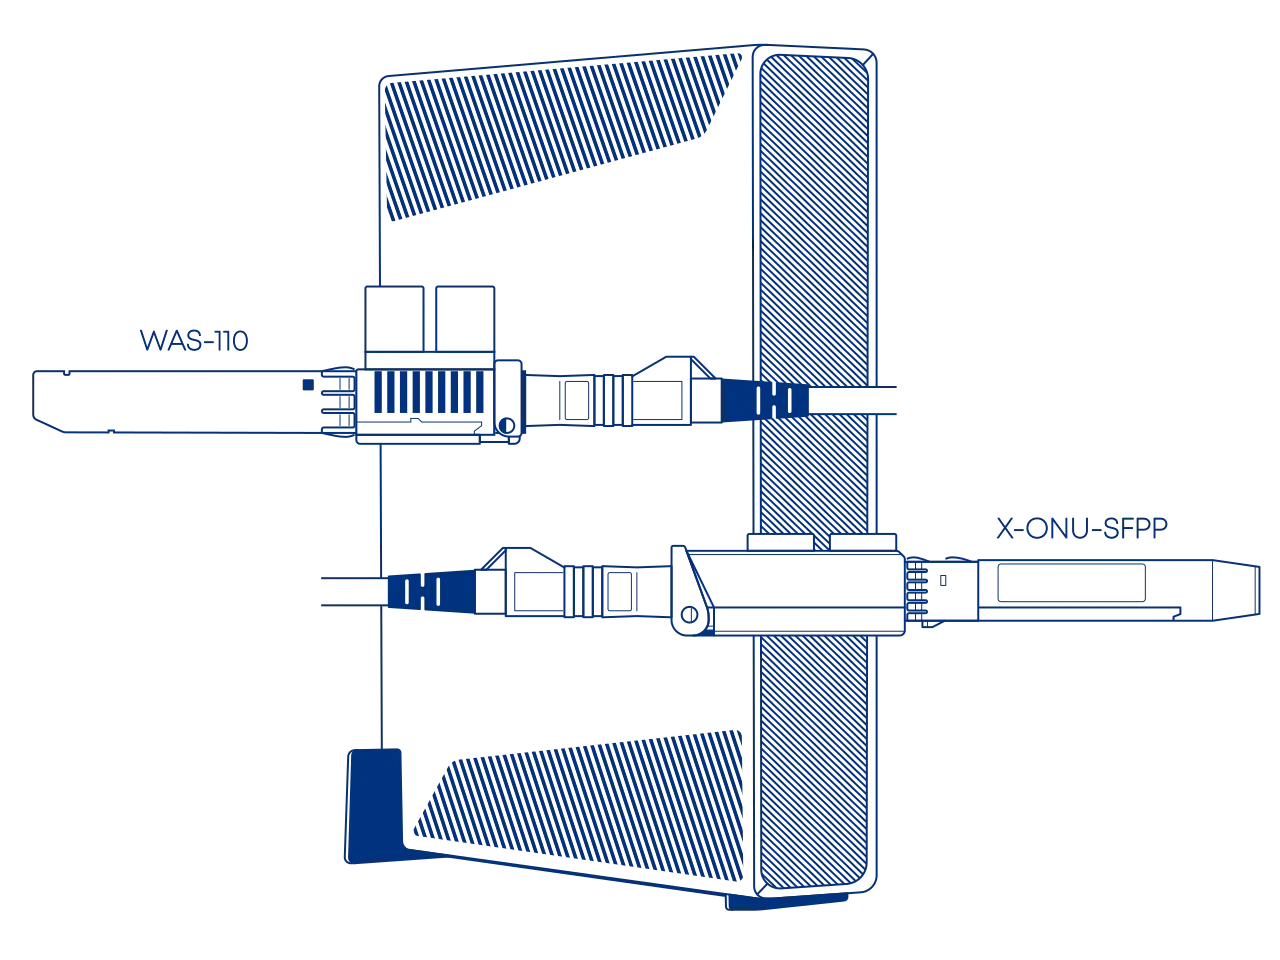
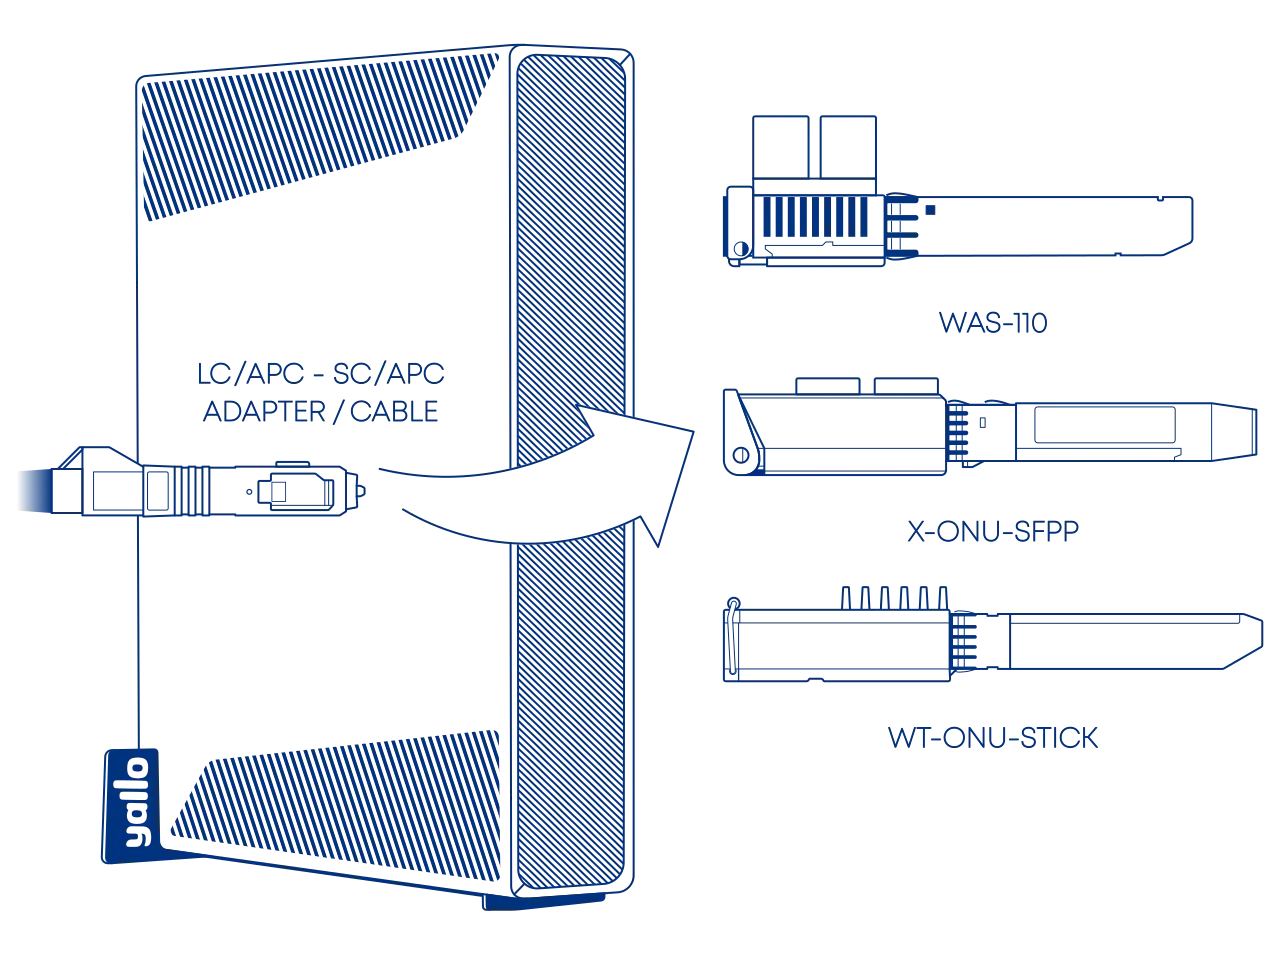
post 25: update header art

diff --git a/fragments/vmed-ltd-hub/purchase-ont.md b/fragments/vmed-ltd-hub/purchase-ont.md
@@ -40,11 +40,13 @@ discretion. We assume no responsibility or liability for the listed resellers.
 
 ### LC/APC to SC/APC adapter or cable { #purchase-adapter }
 
+{% if page.meta.ont.startswith('Hub 5x') %}
 !!! note "Adapter Promotion"
     Supporters of the 8311 Community who have recently purchased a compatible module and made a £5+ donation may be eligible to claim a free SC/APC to LC/APC adapter kit (UK only) from Better Internet Ltd.
     See the [community promotion page](https://store.betterinternet.ltd/8311-supporter-promo/) for details.
+{% endif %}
 
 A Female LC/APC to Male SC/APC adapter is necessary for connecting to the [WAS-110] or [X-ONU-SFPP] with the
 provisioned LC/APC cable, or a Male LC/APC to Male SC/APC patch cable, both of which can be purchased at
-<https://www.amazon.com/> or <https://www.amazon.co.uk/>.
+{% if page.meta.ont.startswith('Hub 5x') %}<https://www.amazon.co.uk/>{% else %}<https://www.amazon.com/>{% endif %}.
 

diff --git a/docs/index.md b/docs/index.md
@@ -17,6 +17,7 @@
     <option value="p4-sp-z-oo-playiliad-group">&#127477;&#127473; Play</option>
     <option value="rogers">&#127464;&#127462; Rogers</option>
     <option value="salt-mobile-sa">&#127464;&#127469; Salt Mobile SA</option>
+    <option value="sunrise">&#127464;&#127469; yallo, Sunrise LLC</option>
     <option value="sasktel">&#127464;&#127462; SaskTel</option>
     <option value="sonic">&#127482;&#127480; Sonic</option>
     <option value="telus">&#127464;&#127462; Telus</option>
